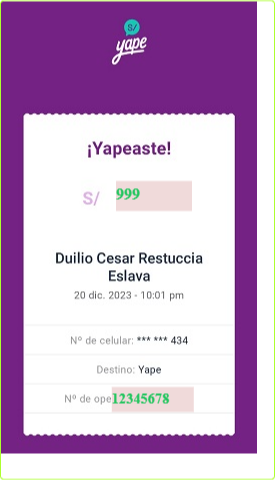
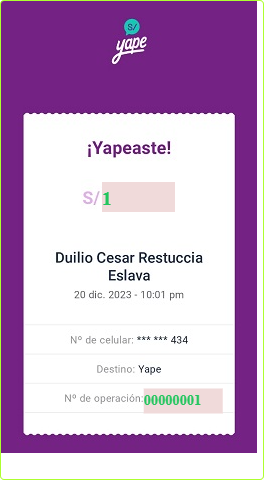
Genero imagen jpg POR DEFECTO

diff --git a/templates/css/styles_ai.css b/templates/css/styles_ai.css
@@ -1,3 +1,4 @@
+
 #botonera{
     position: relative;
     top: 0px;
@@ -15,12 +16,12 @@
   
 #montoX {
     position: relative;
-    top: 180px;
-    left: 115px;
+    top: 181px;
+    left: 101px;
     width: 28%;
     height: 30px;
     font-weight: 700;
-    font-size: 1em;
+    font-size: 1.25em;
     background-color: rgb(240, 218, 218);
   }
   #n_operaX {
@@ -78,8 +79,6 @@
     position: relative;
     top: -80px;
     left: 350px;
-    width: 180px;
-    height: 200px;
     font-size: 1em;
     font-weight: 500;
     background-color: transparent;
@@ -88,7 +87,7 @@
 #imagenCapturada{
     position: relative;
     left: 20px;
-    width: 340px;
+    width: 440px;
     height: 480px;
     border:1px solid yellow;
     box-shadow: 1px yellowgreen;

diff --git a/templates/html/yape.html b/templates/html/yape.html
@@ -170,7 +170,7 @@ document.getElementById('botonCaptura').addEventListener('click', function() {
   html2canvas(document.getElementById('captura-yape')).then(function(canvas) {
       // Crea una nueva imagen y establece su origen en el canvas
       var img = new Image();
-      img.src = canvas.toDataURL();
+      img.src = canvas.toDataURL('image/jpeg')
 
       // Agrega la imagen al div
       document.getElementById('imagenCapturada').appendChild(img);
@@ -180,5 +180,4 @@ document.getElementById('botonCaptura').addEventListener('click', function() {
 </script>
 
 </body>
-
 </html>

diff --git a/main.py b/main.py
@@ -65,15 +65,15 @@ async def upload_documents(request: Request, archivos: List[UploadFile]):
     carpeta_pdf = getcwd() + "/templates/image"
 
     for file_uri in archivos:
-        print("file_uri===================>",file_uri)
-        print("Nombre del Archivo ===================>",file_uri.filename)
+
         #Get mime_type
         if file_uri.filename.endswith('.pdf'):
             mime_type = "application/pdf"
 
         if file_uri.filename.endswith('.jpg') or file_uri.filename.endswith('.jpeg'):
             mime_type = "image/jpeg"
-        else:
+        
+        if file_uri.filename.endswith('.png'):
             mime_type = "image/png"
 
 	
